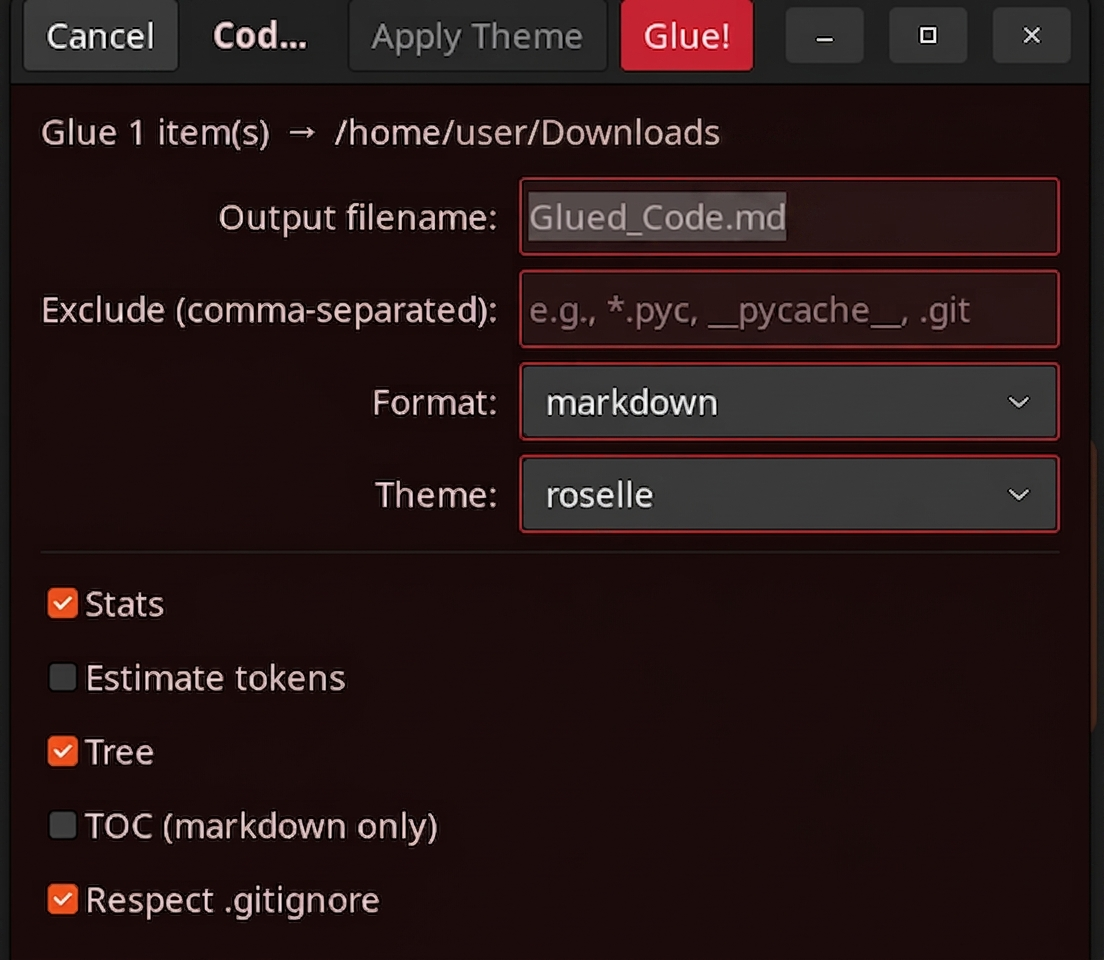
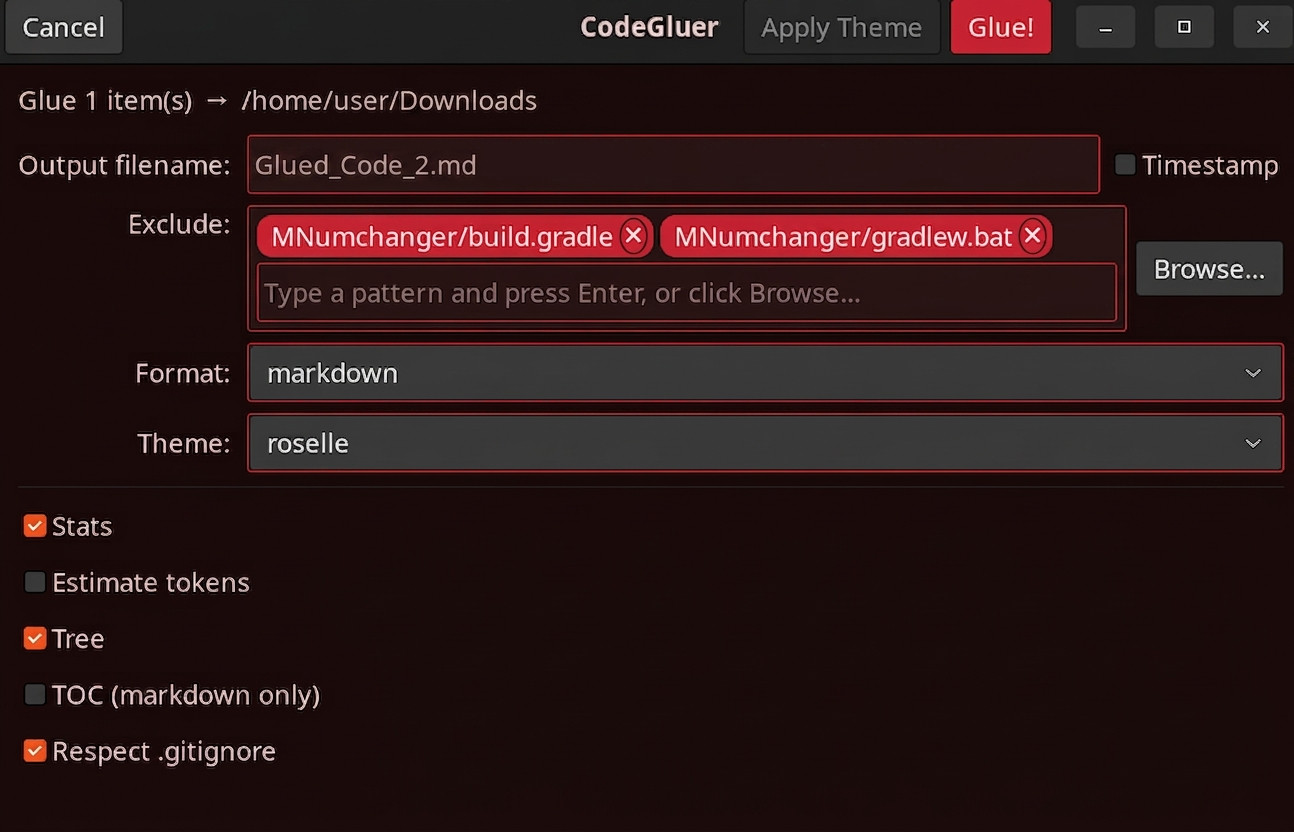
chore: prepare v1.1.0 release
- Bump version to 1.1.0 in pyproject.toml and codegluer/__init__.py
- Fix uninstall.sh to remove codegluer-gui binary and current Nautilus
  script (CodeGluer) that were left as orphans after uninstall
- Update README.md with:
  * Timestamp checkbox feature documentation
  * Missing CLI flags (--version, --toc, --stats, --estimate-tokens,
    --ai-prompt, --tree-max-files)
  * Known limitations section (mixed zip inputs, naive unwrap, zip bomb
    guard limitations)
  * Fix inaccuracies (pipx fallback, config file clarification)
  * Remove hallucinated 'Exclude Validation' feature
  * Add CODEGLUER_DEBUG and <system_context> documentation
- Add/update screenshots for GUI features

diff --git a/codegluer/__init__.py b/codegluer/__init__.py
@@ -1,5 +1,5 @@
 """CodeGluer - Glue multiple code files into a single document."""
-__version__ = '1.0.0'
+__version__ = '1.1.0'
 
 from .core import (
     SEPARATOR_CHAR,

diff --git a/README.md b/README.md
@@ -2,7 +2,7 @@
 
 [![License: MIT](https://img.shields.io/badge/License-MIT-blue.svg)](https://opensource.org/licenses/MIT)
 [![Python 3.8+](https://img.shields.io/badge/Python-3.8+-blue.svg)](https://www.python.org/)
-[![Version](https://img.shields.io/badge/version-1.0.0-blue.svg)](https://github.com/fathriAbanoub/codegluer)
+[![Version](https://img.shields.io/github/v/release/fathriAbanoub/codegluer)](https://github.com/fathriAbanoub/codegluer/releases)
 
 Glue multiple code files (and entire directories) into a single `.txt` or `.md` file.
 
@@ -12,14 +12,19 @@ Perfect for sharing code context with AI assistants, code reviews, documentation
 
 - 📁 **Select & Glue** – Select files in your file manager, right‑click, and glue them instantly.
 - 🖱 **GTK4 GUI Dialog** – Native configuration window to set format, exclude patterns, and toggle options before gluing.
+- 🏷 **Exclude Chips** – Exclude patterns show as removable tags, not a plain text field — type a pattern and press Enter, or pick paths visually with **Browse…**.
+- 🕐 **Timestamp Option** – Toggle a checkbox next to the output filename to include the current date and time (`YYYYMMDD_HHMMSS`) in the default name. Live-updates as you toggle, and respects custom names you've typed.
+- 🖱 **Scoped Browse Button** – Browse opens anchored inside your selected folder (never your whole filesystem), and rejects picks outside it, absolute paths, `~` paths, and `..` escapes as likely mistakes.
+- 🗜 **Zip Support** – Pass a `.zip` as an input path (CLI or GUI) and its contents are glued directly; GitHub-style zips with a single top-level folder are auto-unwrapped, with zip‑slip protection and a size guard against oversized archives.
 - 🎨 **Theme Support** – Choose from **auto** (follows system theme), **light**, **dark**, or **roselle**; persists across sessions.
 - 📂 **Directory Recursion** – Pass a folder and use `-r` to recursively grab all files inside.
+- 🛡 **Safety Guards** – Recursive glues auto-skip common dependency/build folders (`node_modules`, `.git`, `dist`, `build`, `.venv`, `vendor`, and more — see [Safety & Performance Guards](#-safety--performance-guards)) and abort past a 20MB default size cap, both overridable via `--no-default-ignore` and `--max-size`.
 - 🏷 **Clear Markers** – Each file gets a `BEGIN FILE` / `END FILE` header and footer (Plain mode).
 - 📝 **Markdown Mode** – Output pasteable code blocks with syntax highlighting for AI/Notion workflows.
-- 🙈 **`.gitignore` Support** – Use `--respect-gitignore` to automatically exclude ignored files.
+- 🙈 **`.gitignore` Support** – Use `--respect-gitignore` to automatically exclude ignored files (anchored patterns like `/build/` are respected correctly, matching only at the `.gitignore`'s own level).
 - 🎯 **Smart Filtering** – Use `--include` and `--exclude` with advanced glob patterns (e.g., `--exclude "node_modules/**"`).
 - 🌳 **Tree Output** – Include a directory tree summary with `--tree` (use `--tree-depth` and `--tree-max-files` to limit).
-- 📊 **Stats & Token Estimates** – Show file counts, line counts, and token estimates (powered by `tiktoken` if installed).
+- 📊 **Stats & Token Estimates** – Show file counts, line counts, and token estimates (powered by `tiktoken` if installed). The estimate also categorises the total size into tiers (Small, Medium, Large, Very Large) for quick context‑window assessment.
 - 🔍 **Priority Order** – Control file ordering with `--priority` (glob patterns that appear first).
 - 🚫 **`.codegluerignore`** – Project‑specific ignore rules (same format as `.gitignore`).
 - 🔬 **Binary File Detection** – Skips files containing null bytes (binary) to avoid gluing garbage.
@@ -37,9 +42,13 @@ _When selecting files (directory-only options hidden):_
 
 ![GUI for files](screenshots/gui-roselle-files.png)
 
-_When selecting a directory (Tree, TOC, .gitignore appear):_
+_When selecting a directory (Tree, TOC, .gitignore, and the exclude-chip row with Browse… appear):_
 
 ![GUI for directory](screenshots/gui-roselle-directory.png)
+
+**Browse stays scoped to your project, even with `.git`/`node_modules` present:**
+
+![Browse dialog scoped to selected project folder](screenshots/browse-scoped.png)
 
 **Clean, pasteable output:**
 
@@ -54,7 +63,7 @@ Most context-prep tools are built for macOS or run in VS Code. CodeGluer is buil
 - **Native right-click integration** for Nautilus (GNOME) and Nemo (Cinnamon) — no terminal needed.
 - **GTK4 native GUI** – clean, fast, and fits your desktop theme.
 - **Pipe-friendly CLI** (`-o -`) for scripting and LLM piping workflows.
-- **One‑command install** via `pipx` with no Node.js, no npm, no config files.
+- **One‑command install** via `pipx` (or `pip --user` fallback) with no Node.js, no npm, and zero required configuration.
 
 If you live in a Linux file manager and want to send code to an AI without leaving your workflow, CodeGluer is the tool for that.
 
@@ -106,12 +115,15 @@ pip install -e .
    - **Nemo:** Right‑click → Nemo Actions → **CodeGluer**.
 4. A GTK4 configuration dialog appears where you can:
    - Choose output format (Markdown or Plain)
-   - Set exclude patterns (comma‑separated)
-   - Toggle options (Stats, Token estimate, Tree, TOC, Respect .gitignore)
+   - Set exclude patterns as removable **chips** — type a pattern and press <kbd>Enter</kbd>, or click **Browse…** to pick files/folders visually
+   - Toggle options (Stats, Token estimate, Tree, TOC, Respect .gitignore) — these dir‑only options only appear when a folder or zip is selected
+   - Optionally check **Timestamp** to include the current date/time in the default filename (e.g., `Glued_Code_20260710_143022.md`)
    - Change the theme (auto/light/dark/roselle)
 5. Click **Glue!** – a notification will inform you of success or failure.
 
-_💡 Smart GUI: If you select a folder, the tool automatically applies the `-r` (recursive) flag._
+_💡 Smart GUI: If you select a folder, the tool automatically applies the `-r` (recursive) flag. Selecting a `.zip` behaves the same way — its contents are glued as if you'd selected the extracted folder._
+
+**About the Browse button:** it opens scoped to whatever you selected — it won't let you wander off and exclude something outside your selection, and it rejects absolute paths, `~` paths, and `..` escapes as likely mistakes rather than silently accepting them. If you selected a `.zip`, Browse is disabled (the GUI can't see inside a zip until the CLI extracts it) — an inline note tells you to type exclude patterns manually instead (e.g. `node_modules`, `*.log`).
 
 ## 💻 Usage (Terminal)
 
@@ -142,6 +154,35 @@ codegluer src/ -r --format markdown -o - | llm "explain this codebase"
 
 # Use a custom AI prompt from a file (prepended at the top)
 codegluer src/ -r --ai-prompt-file context.txt -o output.md
+
+# Glue a downloaded GitHub zip directly (auto-unwraps the repo-main/ wrapper folder)
+codegluer repo-main.zip -r --format markdown -o repo_dump.md
+
+# Recursively glue a folder that legitimately has a subfolder named "vendor" or "build"
+# (skip the default ignore list entirely)
+codegluer src/ -r --no-default-ignore
+
+# Raise (or disable) the 20MB default size cap for a large recursive glue
+codegluer src/ -r --max-size 50    # 50MB cap
+codegluer src/ -r --max-size 0     # no cap
+
+# Show version
+codegluer --version
+
+# Include a Table of Contents (markdown only)
+codegluer src/ -r --format markdown --toc -o project.md
+
+# Show project statistics (files, lines, languages)
+codegluer src/ -r --stats -o project.md
+
+# Estimate token count with context-size tier
+codegluer src/ -r --estimate-tokens -o project.md
+
+# Add a custom AI prompt directly (not from file)
+codegluer src/ -r --ai-prompt "Analyze this code for security issues" -o project.md
+
+# Limit tree display to 5 items per directory (default is 10)
+codegluer src/ -r --tree --tree-max-files 5 -o project.md
 ```
 
 ## 🖥 GUI from Terminal
@@ -160,16 +201,36 @@ This opens the same GTK4 dialog, letting you configure options and glue files in
 
 > **Note:** The `codegluer-gui` command is installed by `install.sh` alongside the Python package. It is **not** a separate entry point in `pyproject.toml`; it is a standalone script placed in `~/.local/bin/` during installation.
 
+For debugging GTK issues, you can enable verbose logging by setting the environment variable `CODEGLUER_DEBUG=1` before launching the GUI. This prints detailed traces to stderr, which is invaluable when reporting problems.
+
 ## 🧠 Smart CLI Behaviors
 
 - **Auto‑Timestamping:** For the default output (when no `--output` is specified), if the default output file already exists, CodeGluer appends a timestamp with microseconds to prevent overwrites. When you explicitly provide an output path with `--output` or `-o`, any existing file at that path will be overwritten without timestamp protection.
 - **Graceful Degradation:** Missing or unreadable files are skipped with a warning; the tool glues the remaining files without crashing.
 - **Space & Unicode Safe:** Handles filenames with spaces, parentheses, and special characters flawlessly.
 - **Relative Display Names:** When recursing, files are labelled with their relative paths (e.g., `src/utils.py`) to avoid filename collisions.
-- **`--ai-prompt` / `--ai-prompt-file`:** Prepend a custom text block before the code sections. Useful for adding instructions, project context, or a description that an AI assistant will see at the top of the file.
+- **`--ai-prompt` / `--ai-prompt-file`:** Prepend a custom text block before the code sections. The block is wrapped in `<system_context>...</system_context>` XML tags to help LLMs distinguish instructions from code. Useful for adding instructions, project context, or a description that an AI assistant will see at the top of the file.
 - **Binary File Detection:** Files containing null bytes (i.e., binary files) are automatically skipped to prevent corrupting the output.
 - **`.codegluerignore`:** Project‑specific ignore rules can be placed in a `.codegluerignore` file (same syntax as `.gitignore`).
-- **Exclude Validation (GUI):** If you enter patterns with spaces but no commas (e.g., `*.py *.js`), the GUI will prompt you to fix them (GTK 4.10+) or auto‑correct them to `*.py,*.js` (older GTK). This prevents common mistakes.
+- **Zip Auto‑Unwrap:** A zip with a single top‑level folder (e.g. a GitHub `repo-main.zip`) is unwrapped so the tree shows `src/app.py`, not `repo-main/src/app.py`.
+- **Anchored `.gitignore` Rules:** A pattern like `/build/` in a `.gitignore` only matches at that file's own directory level, matching real Git semantics — it won't accidentally exclude an unrelated `sub/build/` elsewhere in the tree.
+
+## ⚠ Known Limitations
+
+- **Mixed zip + non-zip inputs:** Using `codegluer foo.zip bar/` produces weird display names because the expanded zip path and other paths have distant common ancestors. Extract zips manually if you need to mix them with other paths.
+- **Naive zip unwrap:** Zips with a single top-level folder are always unwrapped. If a zip legitimately has one top-level dir that _is_ the project structure, it still gets unwrapped. This is fine for GitHub zips but may not be ideal for all cases.
+- **Zip size guard:** The size guard checks declared uncompressed size before extraction, which prevents accidental-large inputs but is NOT a defense against adversarial zip-bombs (attackers can lie about sizes).
+
+## 🛡 Safety & Performance Guards
+
+Recursive glues (`-r`) on real-world projects can otherwise choke on dependency/build folders — CodeGluer guards against that by default:
+
+- **Default‑ignored directory names** (skipped automatically during `-r`, regardless of depth): `node_modules`, `.git`, `.next`, `.nuxt`, `dist`, `build`, `__pycache__`, `.venv`, `venv`, `target`, `.cache`, `.pytest_cache`, `vendor`, `.turbo`. Disable entirely with `--no-default-ignore` if you genuinely need to glue inside one of these on purpose.
+- **20MB default size cap** on total glued content, aborting _before_ the offending file is appended rather than after. Adjust with `--max-size <MB>`, or `--max-size 0` to disable.
+- **Zip extraction guards** — oversized zips are rejected before extraction (same `--max-size` cap), and zip‑slip (path traversal via crafted zip entries) is blocked.
+- **GUI Browse button** uses a separate, lighter heuristic to avoid pointing its file picker at something that would freeze GTK while thumbnailing (a huge flat directory, or a picker pointed directly _at_ a folder like `node_modules`) — it does not affect what gets glued, only where the picker opens.
+
+The GUI is built on GTK4 and gracefully falls back to `FileChooserNative` when running on older GTK4 versions, ensuring a consistent experience across distributions.
 
 ## 📄 Output Format
 
@@ -257,9 +318,6 @@ sequenceDiagram
 
     User->>GUI: Click "Glue!"
     GUI->>GUI: Collect options, validate excludes
-    alt Excludes have spaces but no commas
-        GUI->>GUI: Show dialog (GTK 4.10+) or auto-fix
-    end
     GUI->>Logic: build_command(files, opts)
     Logic-->>GUI: CLI argument list
     GUI->>GUI: save_theme(current_theme)
